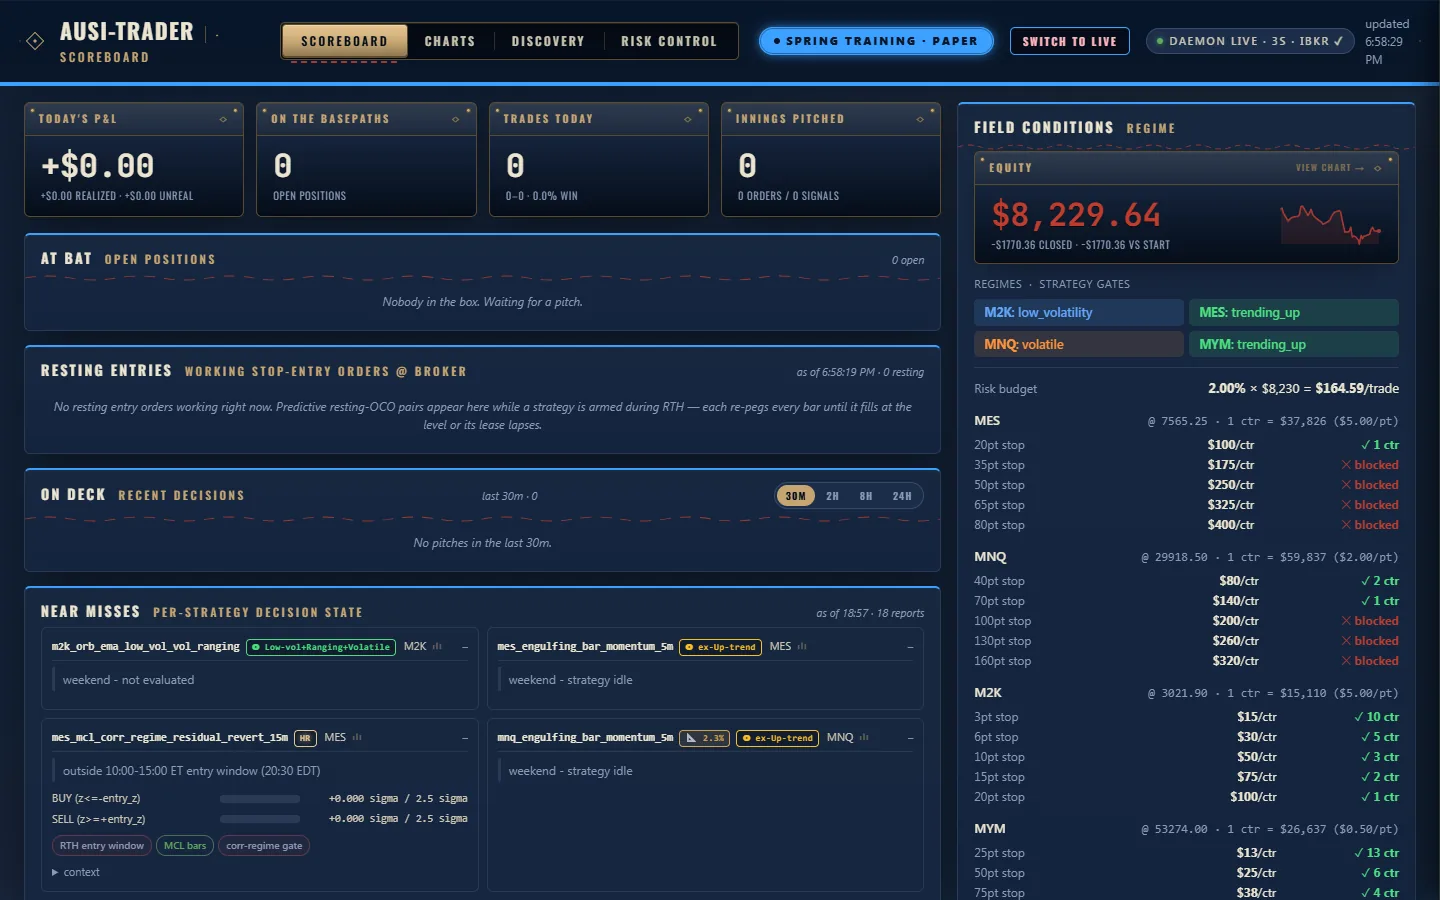
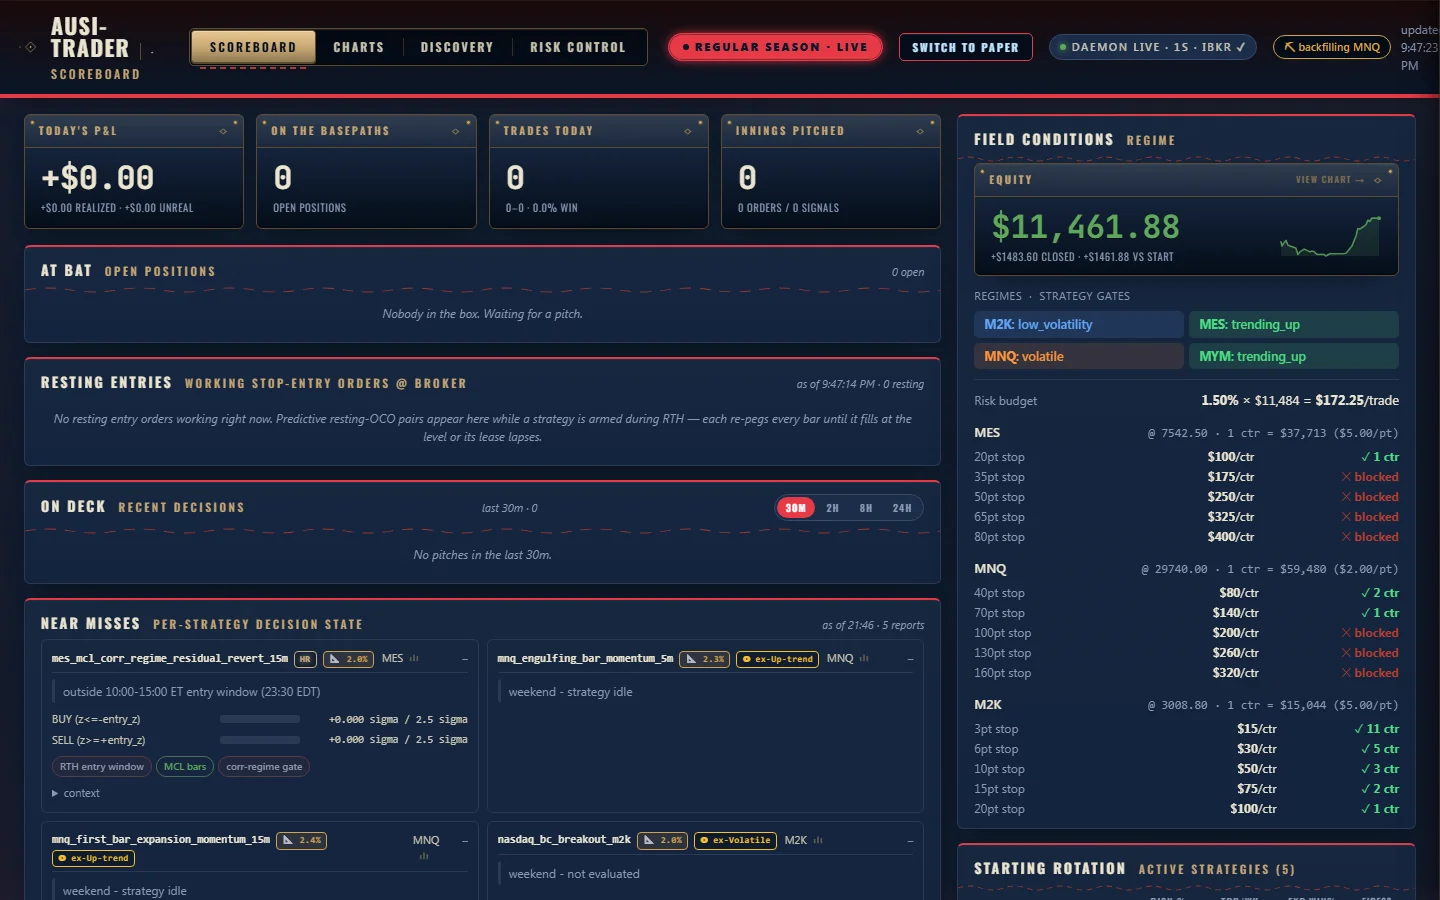
Site polish round: live trading shot, tighter hero, footer + cursor fixes
Ausi-trader feature/case imagery swapped to the LIVE account scoreboard
(port 8789, green equity) replacing the paper-mode capture. Home hero
sized to fit a laptop viewport with CTAs and ridgeline in frame; lede
trimmed to one sentence. Style Guide link removed from footer (page
stays reachable at /style-guide). cursor:pointer on buttons. LinkedIn
URL wired into socials.

diff --git a/assets/css/site.css b/assets/css/site.css
@@ -220,6 +220,7 @@ section { position: relative; }
 }
 
 /* ---------- buttons + accent links ---------- */
+button, .button { cursor: pointer; }
 .button {
     display: inline-block;
     font-family: var(--font-body);
@@ -296,7 +297,7 @@ section { position: relative; }
 /* ---------- hero + topo ---------- */
 /* Motif 2 — topo contours: hero only (evergreen strokes baked into the SVG) */
 .hero { background: var(--stone-50); overflow: hidden; }
-.hero__inner { padding-block: 108px 116px; position: relative; max-width: 61.25rem; }
+.hero__inner { padding-block: clamp(40px, 6vh, 64px) 40px; position: relative; max-width: 61.25rem; }
 .hero--case .hero__inner,
 .hero--page .hero__inner { padding-block: 88px 24px; background: none; }
 .hero--case, .hero--page { background: var(--bg-page); }
@@ -308,7 +309,7 @@ section { position: relative; }
 }
 .hero__heading { max-width: 17ch; }
 .hero--home .hero__heading {
-    font-size: clamp(2.6rem, 1.55rem + 3.6vw, 4.625rem); /* 74px @1440 */
+    font-size: clamp(2.4rem, 1.4rem + 3vw, 4rem); /* sized so CTAs + ridge fit a laptop viewport */
     line-height: var(--leading-tight);
 }
 .hero--case .hero__heading { font-size: clamp(2.2rem, 1.6rem + 2.6vw, 3.625rem); /* 58px */ line-height: 1.08; }
@@ -319,12 +320,12 @@ section { position: relative; }
     max-width: 38.75rem; /* 620px */
 }
 .hero--case .hero__lede { font-size: 1.125rem; max-width: 42.5rem; }
-.hero__ctas { display: flex; align-items: center; gap: 28px; margin-top: 42px; }
+.hero__ctas { display: flex; align-items: center; gap: 28px; margin-top: 28px; }
 .hero__availability {
     display: flex;
     align-items: center;
     gap: 0.7em;
-    margin: 48px 0 0;
+    margin: 28px 0 0;
     font-size: 0.6875rem; /* 11px */
     letter-spacing: 0.14em;
     text-transform: uppercase;
@@ -344,7 +345,7 @@ section { position: relative; }
 .ridge { line-height: 0; display: block; }
 /* A divider's transparent "sky" must match the section above it. */
 .project-feature + .ridge, .archive-strip + .ridge { background: var(--stone-100); }
-.hero .ridge { margin-top: var(--space-7); }
+.hero .ridge { margin-top: var(--space-5); }
 .ridge svg { width: 100%; height: 84px; display: block; }
 .ridge--tint-dark svg { height: 92px; }
 .ridge--flip svg { transform: scaleX(-1); }

diff --git a/templates/partials/footer.php b/templates/partials/footer.php
@@ -6,7 +6,6 @@
             <?php foreach ($site['socials'] ?? [] as $s): ?>
                 <a href="<?= e($s['url'] ?? '#') ?>" rel="me noopener"><?= e(strtoupper($s['label'] ?? '')) ?></a>
             <?php endforeach; ?>
-            <a href="/style-guide">STYLE GUIDE</a>
             <a href="/work/this-site">THIS SITE</a>
         </span>
     </div>